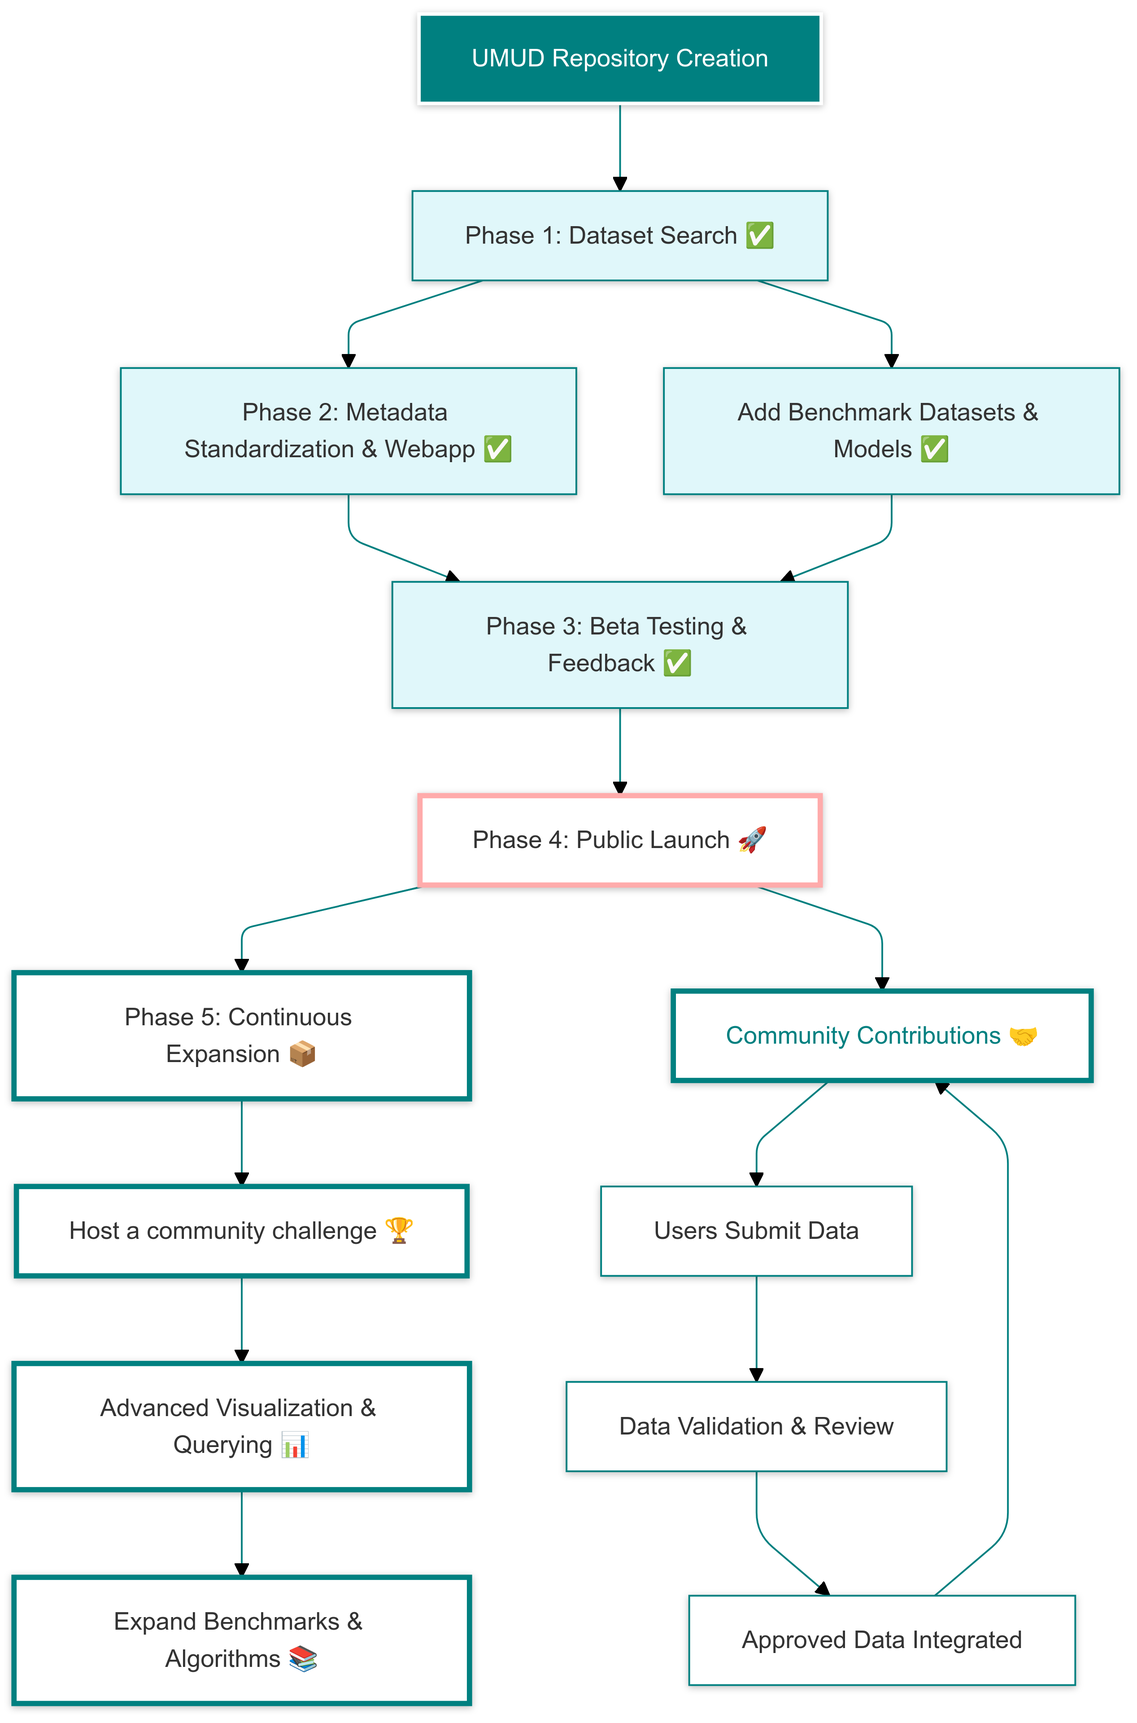
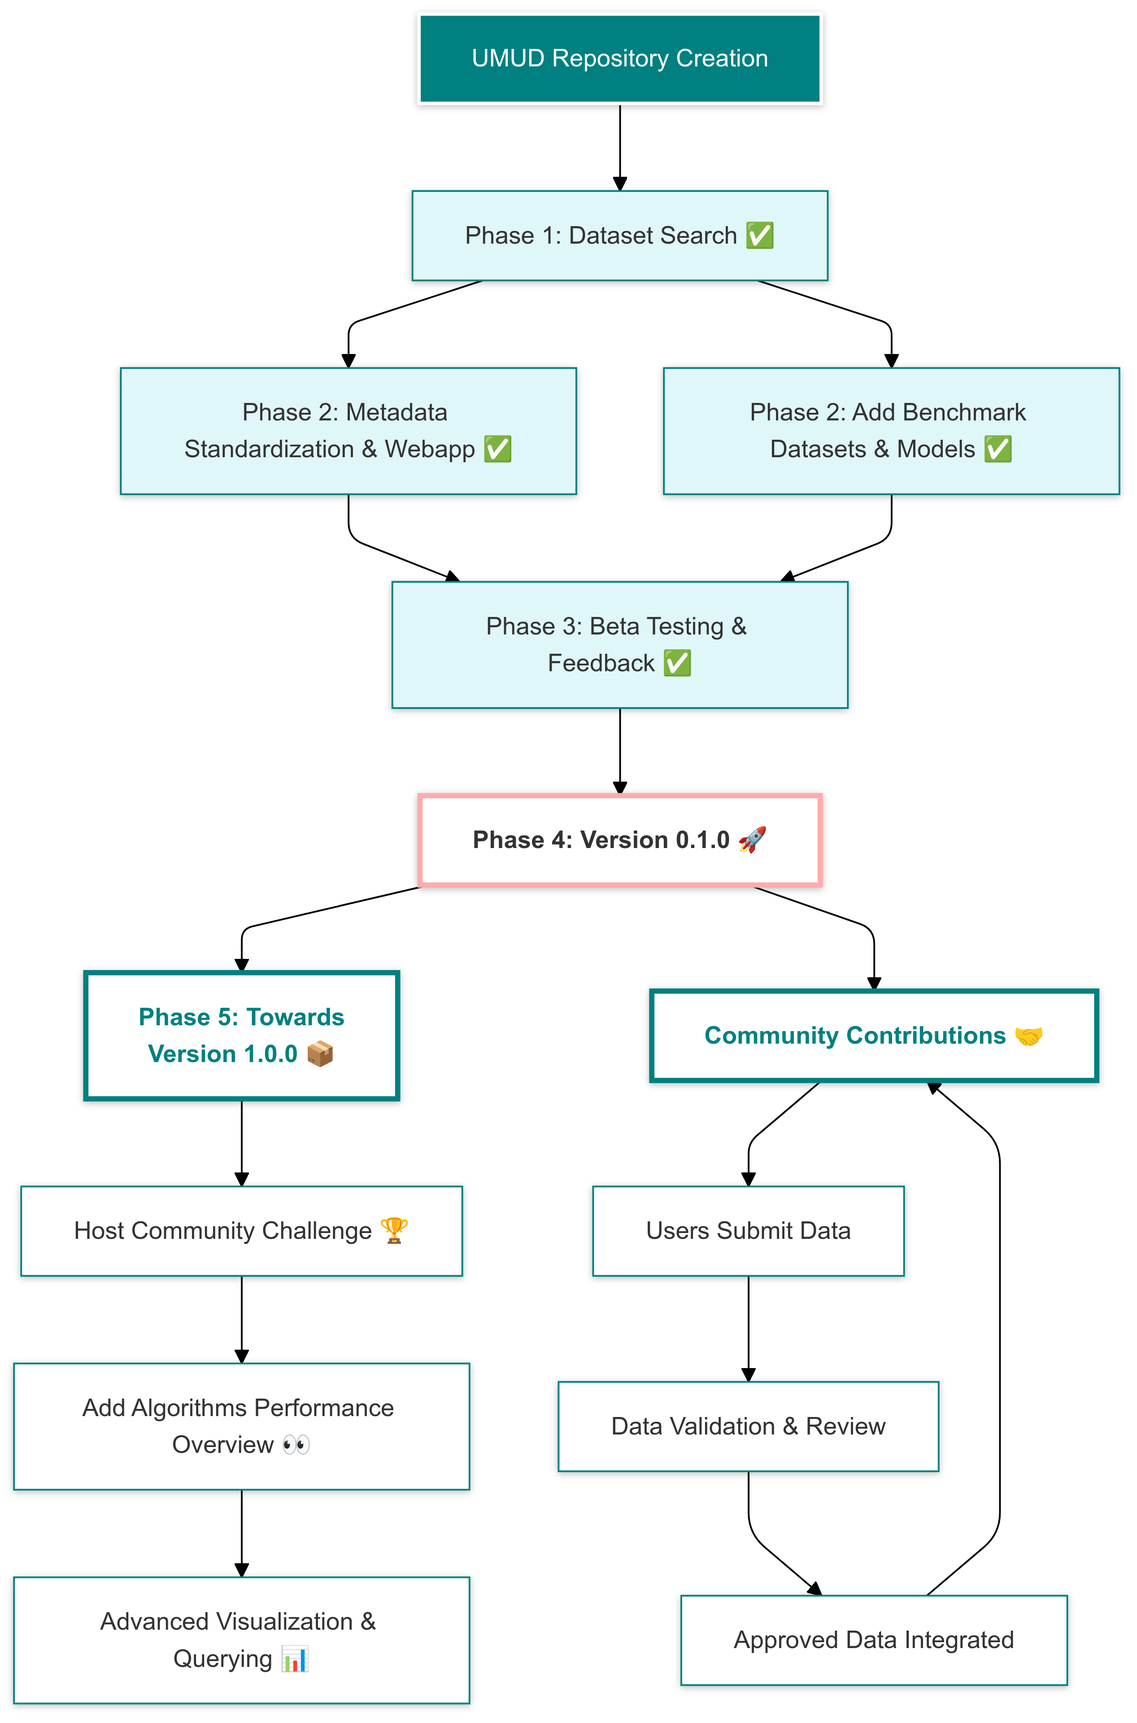
docs(code_of_conduct.md-Readme.md-webapp.py-web-changelog.d/-database_entries/): improved webapp docs and description in readme and added a code of conduct. towards v0.1.0 is now created.

diff --git a/webapp/webapp.py b/webapp/webapp.py
@@ -578,9 +578,6 @@ elif selected_tab == "Benchmarks":
         """
     )
 
-    # Display warning about data quality
-    display_data_warning()
-
     st.markdown(
         """
         Additionally, we provide benchmark models (and their corresponding training datasets) for muscle architecture and ACSA analysis, implemented in Python and integrated with 
@@ -591,10 +588,12 @@ elif selected_tab == "Benchmarks":
 
         These models are selected to serve as reliable benchmarks, not for publicity but to encourage collaboration and improvement based on a standardized common ground.
         **Our expert analysed image datasets should be used as an external test set when applicable.**
-        The performance of the models and comparability to expert annotation is displayed below. 
         Additional benchmark models for other segmentation tasks are under development.
         """
     )
+
+    # Display warning about data quality
+    display_data_warning()
 
     # Performance Metrics Section
     st.markdown("---")
@@ -602,43 +601,45 @@ elif selected_tab == "Benchmarks":
     st.markdown(
         """
         ### 📊 Performance Metrics
-        Benchmarking and scoring performance is essential for comparability, transparency and reproducibility.  
+        Benchmarking and scoring performance is essential for comparability, transparency and reproducibility.
         By expanding the fields below, you can take a detailed look at the model/algorithm performance on our provided training and expert analysed test images.
+        
+        Under construction 🛠...
         """
     )
 
-    with st.expander("**🤗 Algorithm Training Metrics**"):
+    # with st.expander("**🤗 Algorithm Training Metrics**"):
 
-        st.markdown("#### Algorithm Training Metrics")
-        # Description of Calculation
-        st.markdown(
-            """
-            All metrics are calculated during model training on the validation folds using the mean value of five fold cross-validation. Here is a short description of the metrics:
-            - **IoU (Intersection over Union)**: Measures overlap between predicted and ground truth areas.
-            - **Dice Coefficient**: Measures similarity between two sets of data.
-            """
-        )
+    #     st.markdown("#### Algorithm Training Metrics")
+    #     # Description of Calculation
+    #     st.markdown(
+    #         """
+    #         All metrics are calculated during model training on the validation folds using the mean value of five fold cross-validation. Here is a short description of the metrics:
+    #         - **IoU (Intersection over Union)**: Measures overlap between predicted and ground truth areas.
+    #         - **Dice Coefficient**: Measures similarity between two sets of data.
+    #         """
+    #     )
 
-        display_training_metrics()
-        # fig = display_training_metrics_barplots()
-        # st.pyplot(fig)
+    #     display_training_metrics()
+    #     # fig = display_training_metrics_barplots()
+    #     # st.pyplot(fig)
 
-    # Dropdowns for model selection and metric filtering
-    with st.expander("**📐 Muscle Geometry Comparability Statistics**", expanded=False):
+    # # Dropdowns for model selection and metric filtering
+    # with st.expander("**📐 Muscle Geometry Comparability Statistics**", expanded=False):
 
-        st.markdown(
-            """
-        All statistics are calculated compared to the manual analysis by our expert raters. Here is a short description of the statistics. (For simplicity we omit compatibility intervals, keep this in mind when interpreting the data.):
-        - **Intraclass Correlation Coefficient (ICC)**:  
-        A statistical measure of reliability that assesses the consistency of measurements made by different observers or instruments. ICC values range from 0 to 1, where higher values indicate better reliability.
-        - **Mean Difference (MD)**:  
-        The average absolute difference between measurements. It quantifies bias between methods or observers, with lower values indicating better agreement.
-        - **Coefficient of Variation (CV%)**:  
-        A measure of relative variability expressed as a percentage. It is the ratio of the standard deviation to the mean, used to compare variability across datasets.
-        """
-        )
+    #     st.markdown(
+    #         """
+    #     All statistics are calculated compared to the manual analysis by our expert raters. Here is a short description of the statistics. (For simplicity we omit compatibility intervals, keep this in mind when interpreting the data.):
+    #     - **Intraclass Correlation Coefficient (ICC)**:
+    #     A statistical measure of reliability that assesses the consistency of measurements made by different observers or instruments. ICC values range from 0 to 1, where higher values indicate better reliability.
+    #     - **Mean Difference (MD)**:
+    #     The average absolute difference between measurements. It quantifies bias between methods or observers, with lower values indicating better agreement.
+    #     - **Coefficient of Variation (CV%)**:
+    #     A measure of relative variability expressed as a percentage. It is the ratio of the standard deviation to the mean, used to compare variability across datasets.
+    #     """
+    #     )
 
-        display_comparability_statistics()
+    #     display_comparability_statistics()
 
 elif selected_tab == "Image Analysis":
     st.markdown("---")
@@ -718,8 +719,8 @@ elif selected_tab == "Image Analysis":
     st.info(
         """
             We acknowledge that the list of algorithms is not exhaustive. 
-            Our selection criteria, are open-source code and documentation combined with clear usae-instructions and some kind of testing or validation.
-            Ideally, the algorithm should have a UI an be as user-friendly as possible.
+            Our selection criteria, are open-source code and documentation combined with clear usage instructions and some kind of testing or validation.
+            Ideally, the algorithm should have a UI and be as user-friendly as possible.
             """,
         icon=":material/info:",
     )
@@ -735,7 +736,7 @@ elif selected_tab == "Contributing":
             <h3 style="text-align: center; color: #000000;">💕 Contribute Your Data to UMUD</h3>
             <p>
                 By sharing your datasets, you help create a valuable resource for researchers worldwide. <b>Follow four steps to contribute: Data Preparation,
-                Metadata Submission, Metadata Review, Metadata Integration.</b> These steps are explained in detail below.
+                Metadata Submission, Metadata Review, Metadata Integration.</b>
                 Moreover, you can also give feedback and contribute to the codebase. Thank you for helping us build a resource for the research community!
             </p>
         </div>
@@ -755,7 +756,7 @@ elif selected_tab == "Contributing":
     st.write(
         """
         1. **Prepare Your Data:**
-            - Make sure your data is properly labeled and formatted according to UMUD standards.  
+            - Make sure your data is formatted according to UMUD standards.  
             - Use the metadata entryfields below to create a metadata .json file for your data.   
             - Upload your data to a reliable repository like [Zenodo](https://zenodo.org/) or [OSF](https://osf.io/). Include the link to your dataset in the metadata dictionary.
             - If your dataset includes different populations (e.g., young vs. old individuals), please upload each population as a separate dataset. This makes the data easier to reuse.
@@ -893,7 +894,7 @@ elif selected_tab == "About Us":
     st.image(images + "/fabio_sarto.png", caption="Fabio Sarto", width=150)
     st.write(
         """
-    Fabio Sarto is a developer of the UMUD Repository. He has been instrumental in developing and testing the UMUD Repository's data collection and labeling process. Fabio has a background in neuromuscular physiology and musculoskeletal imaging, and a passion for open-science
+    Fabio Sarto is a developer of the UMUD Repository. He has been instrumental in developing and testing the UMUD Repository's data collection and labeling process. Fabio has a background in neuromuscular physiology and musculoskeletal imaging, and a passion for open-science.
     """
     )
     st.write(

diff --git a/webapp/database.py b/webapp/database.py
@@ -22,52 +22,43 @@ collection = db.datasets
 # Example data
 dictionary = [
     {
-        "DATASET_NAME": "BicepsFem3DUS_2024",
-        "DOI": "10.48610/a38a05d",
+        "DATASET_NAME": "Leg3dUS_2024",
+        "DOI": "",
         "VERSION": "1.0",
-        "MUSCLE": [
-            "Biceps Femoris"
-        ],
-        "MUSCLE_REGION": [
-            "Whole"
-        ],
-        "DEVICE": [
-            "Telemed ArtUs EXT-1H"
-        ],
-        "TRANSDUCER": [
-            "LF11-5H60-A3"
-        ],
+        "MUSCLE": ["Soleus", "Gastrocnemius Lateralis", "Gastrocnemius Medialis"],
+        "MUSCLE_REGION": ["Whole"],
+        "DEVICE": ["Aixplorer Ultimate"],
+        "TRANSDUCER": ["50mm linear"],
         "DATA_TYPE": "Volume",
-        "FILE_TYPE": [],
+        "FILE_TYPE": ["MHA"],
         "IMAGE_TYPE": [],
-        "DATA_PLANE": [
-            "Longitudinal"
-        ],
+        "DATA_PLANE": [],
         "SCANNING_FREQUENCY": None,
         "SAMPLING_RATE": None,
-        "PARTICIPANT_AGE": 27,
-        "PARTICIPANT_HEIGHT": 179,
-        "PARTICIPANT_WEIGHT": 75,
+        "PARTICIPANT_AGE": None,
+        "PARTICIPANT_HEIGHT": 173,
+        "PARTICIPANT_WEIGHT": 64,
         "PARTICIPANT_SEX": "Both",
-        "SAMPLE_SIZE": 12,
-        "DATA_LABELS": False,
-        "DATA_LABELS_DESCRIPTION": "",
-        "SHORT_DESCRIPTION": "This dataset comprises data used for the analyses of hamstring muscle adaptations following 9 weeks of eccentric training and 3 weeks of detraining, focusing on fascicle lengths measured via 3D ultrasound, sarcomere lengths obtained through microendoscopy, and knee flexor force assessed using load cells. Alongside these measurements, the dataset includes all relevant data used for statistical analyses, presented in CSV files. These data provide detailed insights into the multiscale adaptations of hamstring muscles to eccentric training and detraining periods. Note that the downloadable dataset does not only contain 3DUS images but other data from the study as well.",
+        "SAMPLE_SIZE": 44,
+        "DATA_LABELS": True,
+        "DATA_LABELS_DESCRIPTION": "Labels represent four different muscle types with integer values {0,100,150,200} corresponding to the background, Soleus (SOL), Gastrocnemius Medialis (GM), and Gastrocnemius Lateralis (GL).",
+        "SHORT_DESCRIPTION": "The dataset assembles pairs of Ultrasound volumes and 3-labels muscles of the low-limb leg from 44 healthy volunteers, aged between 18 and 45 years, with an average height of 173\u00b111 cm and body mass of 64.3\u00b112.4 kg.Three-dimensional arrays are in MetaImage Medical Format (MHA), with an average voxel grid of 564\u00d7632\u00d71443 (\u00b149\u00d738\u00d7207), with an isotropic voxel spacing of about 0.276993 mm\u00b3 (\u00b10.015 mm\u00b3). The ultrasound imaging utilized a 40mm linear VERMON probe with a frequency range of 2-10 MHz, and an Aixplorer, Supersonic Imagine Ultrasound machine. The tracking of the ultrasound probe was meticulously performed with a 6-camera Optitrack system. During the scans, participants were positioned prone with their leg in a custom-made bath, ensuring minimal pressure influence on the measurements. Multiple parallel sweeps, ranging from the knee to the ankle and recorded every 5 mm in low-speed mode, were conducted. The resulting high-resolution 3D ultrasound volumes were compounded using the tracking matrices of the probe, offering an unprecedented level of detail and accuracy in musculoskeletal imaging. The annotations, carried out by two double-blinded experts, focused on evaluating intra-operative volumetric error, which was found to be as low as 4%.",
         "DATASET_YEAR": "2024",
-        "PUBLICATION_LINK": "https://www.sciencedirect.com/science/article/pii/S2095254624001534?via%3Dihub#sec0022",
-        "DATASET_LINK": "https://espace.library.uq.edu.au/view/UQ:a38a05d",
+        "PUBLICATION_LINK": "https://link.springer.com/article/10.1007/s11548-024-03170-7",
+        "DATASET_LINK": "https://www.cs.cit.tum.de/camp/publications/leg-3d-us-dataset/",
         "AUTHORS": [
-            "Max H. Andrews",
-            "Anoosha Pai S",
-            "Reed D. Gurchiek",
-            "Patricio A. Pincheira",
-            "Akshay S. Chaudhari",
-            "Paul W. Hodges",
-            "Glen A. Lichtwark",
-            "Scott L. Delp"
+            "Vanessa Gonzalez Duque",
+            "Alexandra Marquardt",
+            "Yordanka Velikova",
+            "Lilian Lacourpaille",
+            "Antoine Nordez",
+            "Marion Crouzier",
+            "Hong Joo Lee",
+            "Diana Mateus",
+            "Nassir Navab",
         ],
-        "CONTACT": "data@library.uq.edu.au",
-        "LICENSE": "Creative Commons Attribution 4.0 International (CC BY 4.0)"
+        "CONTACT": "vanessag.duque@tum.de",
+        "LICENSE": "GNU General Public License (GPL) 3.0",
     }
 ]
 
@@ -77,7 +68,7 @@ dictionary = [
 collection.insert_many(dictionary)
 
 # Retrieve and print data from the collection
-query = {"DATASET_NAME": "BicepsFem3DUS_2024"}
+query = {"DATASET_NAME": "Leg3dUS_2024"}
 results = collection.find(query)
 
 # Print the result, DATASET_LINK must be present

diff --git a/webapp/templates/template_dictionary.py b/webapp/templates/template_dictionary.py
@@ -33,32 +33,32 @@ Below, you will find a detailed explanation of each field along with its expecte
   - *Options:* Choose from proximal (0-33% of muscle/bone length), middle (33-66% of muscle/bone length), distal (66-100% of muscle/bone length).
   - *Example:* ["proximal", "middle"]
 
-- **DEVICE_MODEL (str):**
+- **DEVICE (list of str):**
   - *Description:* The ultrasound device used to collect the data.
-  - *Example:* "Siemens Juniper"
+  - *Example:* ["Siemens Juniper", "GE Logiq E9"]
 
-- **PROBE_MODEL (str):**
+- **TRANSDUCER (list of str):**
   - *Description:* The model of the probe used during data collection.fond
-  - *Example:* "ML6-15"
+  - *Example:* ["ML6-15", "12L3"]
 
 - **DATA_TYPE (str):**
   - *Description:* The type of data collected in the dataset.
   - *Options:* Choose from images, videos, volumes.
   - *Example:* "images"
 
-- **FILE_TYPE (str):**
+- **FILE_TYPE (list of str):**
   - *Description:* The file format of the data.
-  - *Example:* "jpg"
+  - *Example:* ["jpg"]
 
-- **IMAGE_TYPE (str):**
+- **IMAGE_TYPE (list of strlist of str):**
   - *Description:* Specifies whether the images are static or panoramic.
   - *Options:* Choose from static, panoramic.
-  - *Example:* "static"
+  - *Example:* ["Static", "Panoramic"]
 
-- **DATA_PLANE (str):**
+- **DATA_PLANE (list of str):**
   - *Description:* The plane in which the images/videos were collected.
   - *Options:* Choose from transverse, longitudinal.
-  - *Example:* "transverse"
+  - *Example:* ["transverse"]
 
 - **PARTICIPANT_AGE (float):**
   - *Description:* Mean age of the participants.
@@ -152,12 +152,14 @@ template_data = [
             "proximal",
             "middle",
         ],  # Which muscle regions are included in the dataset?
-        "DEVICE": "Siemens Juniper",  # What US device was used?
-        "PROBE": "L12/3 Linear Probe",  # What probe was used?
+        "DEVICE": ["Siemens Juniper"],  # What US device was used?
+        "TRANSDUCER": ["L12/3 Linear Probe"],  # What probe was used?
         "DATA_TYPE": "Images",  # Does the dataset contain images, videos, or volumes?
-        "FILE_TYPE": "jpg",  # What is the file type of the data?
-        "IMAGE_TYPE": "Static",  # If images are included, are they static or panoramic?
-        "DATA_PLANE": "Transverse",  # In what plane were the images/videos collected?
+        "FILE_TYPE": ["jpg"],  # What is the file type of the data?
+        "IMAGE_TYPE": [
+            "Static"
+        ],  # If images are included, are they static or panoramic?
+        "DATA_PLANE": ["Transverse"],  # In what plane were the images/videos collected?
         "PARTICIPANT_AGE": 29.5,  # Mean age of participants.
         "PARTICIPANT_HEIGHT": 175.3,  # Mean height of participants (in cm).
         "PARTICIPANT_WEIGHT": 70.8,  # Mean weight of participants (in kg).

diff --git a/Code_of_conduct.md b/Code_of_conduct.md
@@ -1,0 +1,47 @@
+# Contributor Covenant Code of Conduct
+
+## Our Pledge
+
+In the interest of fostering an open and welcoming environment, we as contributors and maintainers pledge to make participation in our project and our community a harassment-free experience for everyone, regardless of age, body size, disability, ethnicity, sex characteristics, gender identity and expression, level of experience, education, socio-economic status, nationality, personal appearance, race, religion, or sexual identity and orientation.
+
+## Our Standards
+
+Examples of behavior that contributes to creating a positive environment include:
+
+* Using welcoming and inclusive language
+* Being respectful of differing viewpoints and experiences
+* Gracefully accepting constructive criticism
+* Focusing on what is best for the community
+* Showing empathy towards other community members
+
+Examples of unacceptable behavior by participants include:
+
+* The use of sexualized language or imagery and unwelcome sexual attention or advances
+* Trolling, insulting/derogatory comments, and personal or political attacks
+* Public or private harassment
+* Publishing others' private information, such as a physical or electronic address, without explicit permission
+* Other conduct which could reasonably be considered inappropriate in a professional setting
+
+## Our Responsibilities
+
+Project maintainers are responsible for clarifying the standards of acceptable behavior and are expected to take appropriate and fair corrective action in response to any instances of unacceptable behavior.
+
+Project maintainers have the right and responsibility to remove, edit, or reject comments, commits, code, wiki edits, issues, and other contributions that are not aligned to this Code of Conduct, or to ban temporarily or permanently any contributor for other behaviors that they deem inappropriate, threatening, offensive, or harmful.
+
+## Scope
+
+This Code of Conduct applies within all project spaces, and it also applies when an individual is representing the project or its community in public spaces. Examples of representing a project or community include using an official project e-mail address, posting via an official social media account, or acting as an appointed representative at an online or offline event. Representation of a project may be further defined and clarified by project maintainers.
+
+## Enforcement
+
+Instances of abusive, harassing, or otherwise unacceptable behavior may be reported by contacting the project team at umudrepository@gmail.com. All complaints will be reviewed and investigated and will result in a response that is deemed necessary and appropriate to the circumstances. The project team is obligated to maintain confidentiality with regard to the reporter of an incident. Further details of specific enforcement policies may be posted separately.
+
+Project maintainers who do not follow or enforce the Code of Conduct in good faith may face temporary or permanent repercussions as determined by other members of the project's leadership.
+
+## Attribution
+
+This Code of Conduct is adapted from the Contributor Covenant homepage, version 1.4, available at https://www.contributor-covenant.org/version/1/4/code-of-conduct.html
+
+[homepage]: https://www.contributor-covenant.org
+
+For answers to common questions about this code of conduct, see https://www.contributor-covenant.org/faq

diff --git a/Readme.md b/Readme.md
@@ -13,7 +13,7 @@
 
 ## Project Description
 
-The Universal Musculoskeletal Ultrasound Repository (UMUD) is a Streamlit-based web application designed to provide easy access to metadata about muscle ultrasonography datasets. The app allows users to filter datasets based on various criteria, such as muscle type, image type, device, and age, and retrieve links to the relevant datasets. At the moment, UMUD is more of a webapp and not a python package. 
+The Universal Musculoskeletal Ultrasound Repository (UMUD) is a Streamlit-based web application designed to provide easy access to metadata about muscle ultrasonography datasets. The app allows users to filter datasets based on various criteria, such as muscle type, image type, device, and age, and retrieve links to the relevant datasets. Moreover, we proivde benchmark analysis models and corresponding training datasets. At the moment, UMUD is more of a webapp and not a python package. 
 
 The UMUD project is part of the [ORMIR](https://www.ormir.org/) community as a seperate [working group](https://www.ormir.org/groups.html#). 
 

diff --git a/changelog.d/20250103_212223_paul.ritsche_towards_v0_1_0.rst b/changelog.d/20250103_212223_paul.ritsche_towards_v0_1_0.rst
@@ -1,0 +1,40 @@
+.. A new scriv changelog fragment.
+..
+.. Uncomment the header that is right (remove the leading dots).
+..
+Removed
+-------
+
+- Preliminary algorithm performance comparisons.
+- sample_submission.csv file of preliminary analysis display.
+
+Added
+-----
+
+- Code of Conduct.
+
+Changed
+-------
+
+- Rewrote benchmark tab for more clarity.
+- Updated the UMUD v0.1.0 roadmap.
+- Updated the umud demo gif.
+- Updated the Readme.md.
+- Updated the template_dictionary.py to newest json schema format.
+
+
+.. Deprecated
+.. ----------
+..
+.. - A bullet item for the Deprecated category.
+..
+.. Fixed
+.. -----
+..
+.. - A bullet item for the Fixed category.
+..
+.. Security
+.. --------
+..
+.. - A bullet item for the Security category.
+..
